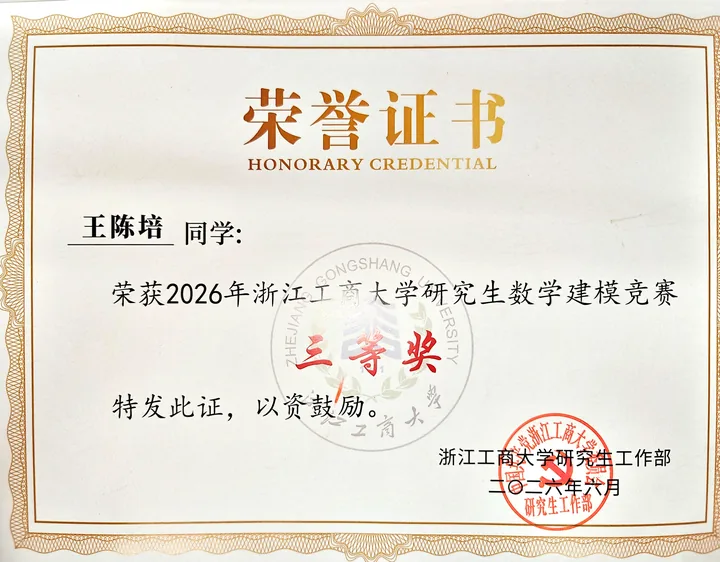
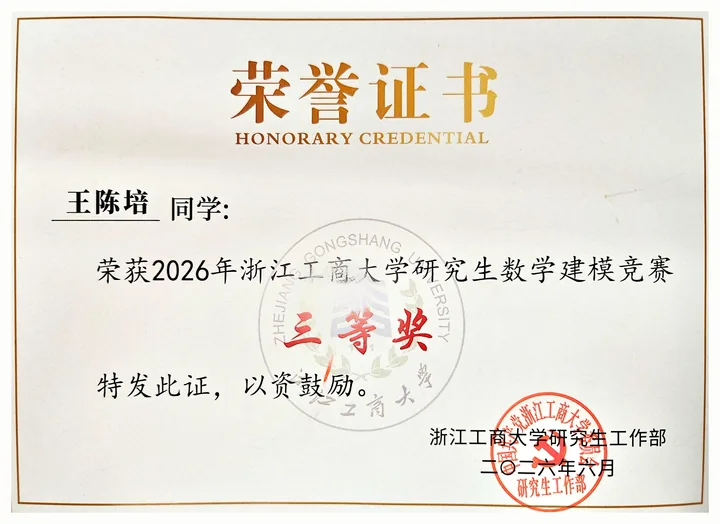
Group PRICAI photos into a Gallery album and improve certificate scan

diff --git a/app/gallery.ts b/app/gallery.ts
@@ -5,66 +5,89 @@ export const galleryCategories = [
 ] as const;
 
 export type GalleryCategory = typeof galleryCategories[number]['id'];
-export type GalleryPhoto = {
-  id:string;
-  title:string;
+export type GalleryImage = {
   image:string;
   thumbnail?:string;
   imageAlt:string;
-  category:GalleryCategory;
   width?:number;
   height?:number;
 };
+export type GalleryItem = {
+  id:string;
+  title:string;
+  category:GalleryCategory;
+  date:string;
+  dateLabel?:string;
+  photos:[GalleryImage, ...GalleryImage[]];
+};
 
-export const galleryPhotos:GalleryPhoto[] = [
+export const galleryItems:GalleryItem[] = [
   {
-    id:'pricai-2026-venue', title:'PRICAI 2026 in Guangzhou', category:'conferences',
-    image:'/gallery/pricai-2026-venue.jpg', thumbnail:'/gallery/thumbs/pricai-2026-venue.webp', width:2048, height:1079,
-    imageAlt:'PRICAI 2026 conference banner in Guangzhou, China',
+    id:'pricai-2026', title:'PRICAI 2026 in Guangzhou', category:'conferences', date:'2026-11', dateLabel:'Nov 16–20, 2026',
+    photos:[
+      {
+        image:'/gallery/pricai-2026-venue.jpg', thumbnail:'/gallery/thumbs/pricai-2026-venue.webp', width:2048, height:1079,
+        imageAlt:'PRICAI 2026 conference banner in Guangzhou, China',
+      },
+      {
+        image:'/gallery/pricai-2026-shi-lin.jpg', thumbnail:'/gallery/thumbs/pricai-2026-shi-lin.webp', width:1094, height:1514,
+        imageAlt:'Shi Lin standing beside the ReDPJ poster at PRICAI 2026',
+      },
+      {
+        image:'/gallery/pricai-2026-redpj-poster.jpg', thumbnail:'/gallery/thumbs/pricai-2026-redpj-poster.webp', width:1284, height:1878,
+        imageAlt:'Printed ReDPJ research poster on display at PRICAI 2026',
+      },
+    ],
   },
   {
-    id:'pricai-2026-shi-lin', title:'Shi Lin at the PRICAI 2026 Poster Session', category:'conferences',
-    image:'/gallery/pricai-2026-shi-lin.jpg', thumbnail:'/gallery/thumbs/pricai-2026-shi-lin.webp', width:1094, height:1514,
-    imageAlt:'Shi Lin standing beside the ReDPJ poster at PRICAI 2026',
+    id:'cvpr-workshop-2025', title:'CVPR 2025 Workshop Challenge · Fourth Place', category:'awards', date:'2025-06',
+    photos:[{
+      image:'/gallery/cvpr-workshop-2025.webp', thumbnail:'/gallery/thumbs/cvpr-workshop-2025.webp', width:1450, height:2048,
+      imageAlt:'Fourth-place certificate for the CVPR 2025 workshop challenge',
+    }],
   },
   {
-    id:'pricai-2026-redpj-poster', title:'ReDPJ Poster at PRICAI 2026', category:'conferences',
-    image:'/gallery/pricai-2026-redpj-poster.jpg', thumbnail:'/gallery/thumbs/pricai-2026-redpj-poster.webp', width:1284, height:1878,
-    imageAlt:'Printed ReDPJ research poster on display at PRICAI 2026',
+    id:'zjsu-mathematical-modeling-2026', title:'ZJSU Graduate Mathematical Modeling Competition · Third Prize', category:'awards', date:'2026-06',
+    photos:[{
+      image:'/gallery/zjsu-mathematical-modeling-2026-scan.jpg?v=2', thumbnail:'/gallery/thumbs/zjsu-mathematical-modeling-2026-scan.webp?v=2', width:1910, height:1389,
+      imageAlt:'Third-prize certificate for the 2026 ZJSU graduate mathematical modeling competition',
+    }],
   },
   {
-    id:'cvpr-workshop-2025', title:'CVPR 2025 Workshop Challenge · Fourth Place', category:'awards',
-    image:'/gallery/cvpr-workshop-2025.webp', thumbnail:'/gallery/thumbs/cvpr-workshop-2025.webp', width:1450, height:2048,
-    imageAlt:'Fourth-place certificate for the CVPR 2025 workshop challenge',
+    id:'generative-ai-security-2024', title:'Generative AI Security Competition · Merit Award', category:'awards', date:'2024-12',
+    photos:[{
+      image:'/gallery/generative-ai-security-2024.webp', thumbnail:'/gallery/thumbs/generative-ai-security-2024.webp', width:2048, height:1449,
+      imageAlt:'Merit award certificate for the 2024 Generative AI Security Competition',
+    }],
   },
   {
-    id:'zjsu-mathematical-modeling-2026', title:'ZJSU Graduate Mathematical Modeling Competition · Third Prize', category:'awards',
-    image:'/gallery/zjsu-mathematical-modeling-2026-scan.jpg', thumbnail:'/gallery/thumbs/zjsu-mathematical-modeling-2026-scan.webp', width:1946, height:1519,
-    imageAlt:'Third-prize certificate for the 2026 ZJSU graduate mathematical modeling competition',
+    id:'huawei-cup-2024', title:'6th Huawei Cup Graduate AI Innovation Competition · Third Prize', category:'awards', date:'2024-10',
+    photos:[{
+      image:'/gallery/huawei-cup-2024.webp', thumbnail:'/gallery/thumbs/huawei-cup-2024.webp', width:2048, height:1449,
+      imageAlt:'Third-prize certificate for the sixth Huawei Cup Graduate AI Innovation Competition',
+    }],
   },
   {
-    id:'generative-ai-security-2024', title:'Generative AI Security Competition · Merit Award', category:'awards',
-    image:'/gallery/generative-ai-security-2024.webp', thumbnail:'/gallery/thumbs/generative-ai-security-2024.webp', width:2048, height:1449,
-    imageAlt:'Merit award certificate for the 2024 Generative AI Security Competition',
+    id:'ccf-bdci-rag-2024', title:'2024 CCF BDCI RAG Challenge · Certificate Rank: 15th', category:'awards', date:'2024-12',
+    photos:[{
+      image:'/gallery/ccf-bdci-rag-2024.webp', thumbnail:'/gallery/thumbs/ccf-bdci-rag-2024.webp', width:1449, height:2048,
+      imageAlt:'Certificate for the 2024 CCF BDCI RAG challenge',
+    }],
   },
   {
-    id:'huawei-cup-2024', title:'6th Huawei Cup Graduate AI Innovation Competition · Third Prize', category:'awards',
-    image:'/gallery/huawei-cup-2024.webp', thumbnail:'/gallery/thumbs/huawei-cup-2024.webp', width:2048, height:1449,
-    imageAlt:'Third-prize certificate for the sixth Huawei Cup Graduate AI Innovation Competition',
+    id:'ccf-bdci-graph-query-2024', title:'2024 CCF BDCI Graph Query Challenge · Certificate Rank: 12th', category:'awards', date:'2024-12',
+    photos:[{
+      image:'/gallery/ccf-bdci-graph-query-2024.webp', thumbnail:'/gallery/thumbs/ccf-bdci-graph-query-2024.webp', width:1449, height:2048,
+      imageAlt:'Certificate for the 2024 CCF BDCI graph query challenge',
+    }],
   },
   {
-    id:'ccf-bdci-rag-2024', title:'2024 CCF BDCI · RAG Challenge', category:'awards',
-    image:'/gallery/ccf-bdci-rag-2024.webp', thumbnail:'/gallery/thumbs/ccf-bdci-rag-2024.webp', width:1449, height:2048,
-    imageAlt:'Certificate for the 2024 CCF BDCI RAG challenge',
-  },
-  {
-    id:'ccf-bdci-graph-query-2024', title:'2024 CCF BDCI · Graph Query Challenge', category:'awards',
-    image:'/gallery/ccf-bdci-graph-query-2024.webp', thumbnail:'/gallery/thumbs/ccf-bdci-graph-query-2024.webp', width:1449, height:2048,
-    imageAlt:'Certificate for the 2024 CCF BDCI graph query challenge',
-  },
-  {
-    id:'zjsu-assistantship-star', title:'ZJSU Graduate Assistantship Star · Nomination Award', category:'awards',
-    image:'/gallery/zjsu-assistantship-star.webp', thumbnail:'/gallery/thumbs/zjsu-assistantship-star.webp', width:2048, height:1448,
-    imageAlt:'Graduate Assistantship Star nomination award certificate from Zhejiang Gongshang University',
+    id:'zjsu-assistantship-star', title:'ZJSU Graduate Assistantship Star · Nomination Award', category:'awards', date:'2026-06',
+    photos:[{
+      image:'/gallery/zjsu-assistantship-star.webp', thumbnail:'/gallery/thumbs/zjsu-assistantship-star.webp', width:2048, height:1448,
+      imageAlt:'Graduate Assistantship Star nomination award certificate from Zhejiang Gongshang University',
+    }],
   },
 ];
+
+export const galleryAlbums = galleryItems.filter(item => item.photos.length > 1);

diff --git a/app/site.tsx b/app/site.tsx
@@ -2,10 +2,10 @@
 
 import { useEffect, useRef, useState, type ReactNode } from 'react';
 import Link from 'next/link';
-import { ArrowUpRight, Building2, Camera, ChevronDown, Code2, FileText, Mail, MapPin, Menu, Network, ShieldCheck, X } from 'lucide-react';
+import { ArrowUpRight, Building2, Camera, ChevronDown, ChevronLeft, Code2, FileText, Images, Mail, MapPin, Menu, Network, ShieldCheck, X } from 'lucide-react';
 import { areas, projects, news, pages, sectionAliases, labDetails, memberGroups, advisorProfile, supervisorPublications, type Project, type NewsItem } from './data';
 import { publications, publicationAreas, type PublicationItem } from './publications';
-import { galleryCategories, galleryPhotos } from './gallery';
+import { galleryCategories, galleryItems, type GalleryImage, type GalleryItem } from './gallery';
 import { formatNewsDate, isRecentNews, newsYear } from './news-dates';
 
 const nav = [
@@ -129,18 +129,47 @@ function NewsDate({ item, now }: { item:NewsItem; now:number | null }) {
   </div>;
 }
 
+function GalleryDate({ item }: { item:GalleryItem }) {
+  return <time dateTime={item.date}>{item.dateLabel ?? formatNewsDate(item.date)}</time>;
+}
+
+function GalleryPicture({ photo }: { photo:GalleryImage }) {
+  return <img src={assetPath(photo.thumbnail ?? photo.image)} alt={photo.imageAlt} loading="lazy" decoding="async" width={photo.width} height={photo.height} />;
+}
+
+function GalleryAlbum({ item }: { item:GalleryItem }) {
+  return <section className="panel gallery-album" aria-label={item.title + ' photos'}>
+    <div className="gallery-album-toolbar">
+      <Link href="/gallery"><ChevronLeft size={16} aria-hidden="true" />Back to Gallery</Link>
+      <GalleryDate item={item} />
+    </div>
+    <div className="gallery-album-stack">
+      {item.photos.map(photo => <a className="gallery-photo-link" data-portrait={Boolean(photo.width && photo.height && photo.height > photo.width)} key={photo.image} href={assetPath(photo.image)} target="_blank" rel="noreferrer" aria-label={'Open full-size photo: ' + photo.imageAlt}>
+        <GalleryPicture photo={photo} />
+      </a>)}
+    </div>
+  </section>;
+}
+
 function Gallery() {
   const [activeCategory, setActiveCategory] = useState('all');
-  const photos = galleryPhotos.filter(photo => activeCategory === 'all' || photo.category === activeCategory);
+  const items = galleryItems.filter(item => activeCategory === 'all' || item.category === activeCategory);
   return <section className="panel gallery-panel">
     <div className="gallery-toolbar" role="group" aria-label="Filter photos by category">
       {[{id:'all',name:'All'}, ...galleryCategories].map(category => <button type="button" className="gallery-filter" key={category.id} aria-pressed={activeCategory === category.id} onClick={() => setActiveCategory(category.id)}>{category.name}</button>)}
     </div>
-    {photos.length > 0 ? <div className="gallery-grid">{photos.map(photo => <figure className="gallery-photo" key={photo.id}>
-      <a className="gallery-photo-link" href={assetPath(photo.image)} target="_blank" rel="noreferrer" aria-label={'Open full-size photo: ' + photo.title}>
-        <img src={assetPath(photo.thumbnail ?? photo.image)} alt={photo.imageAlt} loading="lazy" decoding="async" width={photo.width} height={photo.height} />
-      </a>
-    </figure>)}</div> : <div className="gallery-empty" role="status">
+    {items.length > 0 ? <div className="gallery-grid" data-single={items.length === 1}>{items.map(item => {
+      const cover = item.photos[0];
+      return <figure className="gallery-photo" key={item.id}>
+        {item.photos.length > 1 ? <Link className="gallery-photo-link gallery-cover-link" href={'/gallery/' + item.id} aria-label={'Open album: ' + item.title}>
+          <GalleryPicture photo={cover} />
+          <span className="gallery-album-icon" aria-hidden="true"><Images size={17} strokeWidth={1.7} /></span>
+        </Link> : <a className="gallery-photo-link" href={assetPath(cover.image)} target="_blank" rel="noreferrer" aria-label={'Open full-size photo: ' + item.title}>
+          <GalleryPicture photo={cover} />
+        </a>}
+        <figcaption><h2>{item.title}</h2><GalleryDate item={item} /></figcaption>
+      </figure>;
+    })}</div> : <div className="gallery-empty" role="status">
       <div className="gallery-empty-art" aria-hidden="true"><span /><span /><span><Camera size={34} strokeWidth={1.3} /></span></div>
       <p>Photos coming soon</p>
     </div>}
@@ -440,7 +469,7 @@ function ProjectDetail({ id }: { id: string }) {
   </>;
 }
 
-export function LabSite({ section: requestedSection, projectId }: { section: string; projectId?: string }) {
+export function LabSite({ section: requestedSection, projectId, album }: { section: string; projectId?: string; album?:GalleryItem }) {
   const [menu, setMenu] = useState(false);
   const navigationRef = useRef<HTMLElement>(null);
   const section = sectionAliases[requestedSection] || requestedSection;
@@ -538,7 +567,7 @@ export function LabSite({ section: requestedSection, projectId }: { section: str
   }, []);
   const content: Record<string, ReactNode> = {
     home: <Home />, advisor: <Advisor />, members: <Members />,
-    publications: <Publications />, news: <News />, gallery: <Gallery />, contact: <Contact />, resources: <Resources />,
+    publications: <Publications />, news: <News />, gallery: album ? <GalleryAlbum item={album} /> : <Gallery />, contact: <Contact />, resources: <Resources />,
   };
   return <>
     <a href="#main-content" className="skip-link">Skip to main content</a>
@@ -553,7 +582,7 @@ export function LabSite({ section: requestedSection, projectId }: { section: str
       </div>
     </div></header>
     <div className="site-body"><Sidebar /><main id="main-content" className="main-content">
-      {page && <div className="page-heading"><h1>{page.title}</h1></div>}
+      {page && <div className="page-heading"><h1>{album?.title ?? page.title}</h1></div>}
       {projectId ? <ProjectDetail id={projectId} /> : content[section]}
       <footer className="site-footer"><p>© 2026 TrustLab · Zhejiang Gongshang University</p><a href="#main-content">Back to top ↑</a></footer>
     </main></div>

diff --git a/app/globals.css b/app/globals.css
@@ -279,9 +279,22 @@ section[id], article[id] { scroll-margin-top: 116px; }
 .gallery-empty-art > span:nth-child(3) { left: 20px; top: 26px; display: flex; align-items: center; justify-content: center; color: #829bb9; }
 .gallery-empty p { color: var(--muted); font-size: 14px; }
 .gallery-grid { columns: 3; column-gap: 16px; padding: 22px 23px 6px; }
+.gallery-grid[data-single="true"] { columns: 1; }
 .gallery-photo { position: relative; isolation: isolate; display: inline-block; width: 100%; break-inside: avoid; margin: 0 0 16px; border: 1px solid #ffffffbd; border-radius: var(--radius-card); overflow: hidden; background: #ffffffe8; box-shadow: inset 0 1px 0 #fff, 0 0 0 1px #d7e3f07a, 0 6px 20px -12px #294a7430; }
 .gallery-photo-link { display: block; cursor: zoom-in; }
 .gallery-photo-link img { width: 100%; height: auto; }
+.gallery-photo-link:focus-visible { outline-offset: -4px; }
+.gallery-photo figcaption { display: grid; gap: 4px; padding: 12px 14px 14px; }
+.gallery-photo h2 { color: var(--navy); font-size: 14px; font-weight: 600; line-height: 1.48; }
+.gallery-photo time, .gallery-album-toolbar time { color: var(--muted); font-size: 13px; line-height: 1.5; }
+.gallery-cover-link { position: relative; cursor: pointer; }
+.gallery-album-icon { position: absolute; inset: 10px 10px auto auto; display: grid; place-items: center; width: 36px; height: 36px; border-radius: 50%; background: #fffffff0; box-shadow: var(--control-shadow); color: var(--navy); }
+.gallery-album-toolbar { display: flex; align-items: center; justify-content: space-between; flex-wrap: wrap; gap: 10px; padding: 17px 23px; border-bottom: 1px solid #dfe7f27d; }
+.gallery-album-toolbar a { display: inline-flex; align-items: center; gap: 4px; color: var(--blue); font-size: 14px; }
+.gallery-album-toolbar a:hover { text-decoration: underline; }
+.gallery-album-stack { display: grid; justify-items: center; gap: 18px; padding: 22px; }
+.gallery-album-stack > a { width: 100%; border-radius: var(--radius-image); overflow: hidden; box-shadow: 0 0 0 1px #d7e3f07a, 0 6px 20px -12px #294a7430; }
+.gallery-album-stack > a[data-portrait="true"] { max-width: 560px; }
 
 @supports ((backdrop-filter: blur(1px)) or (-webkit-backdrop-filter: blur(1px))) {
   .header-inner { background: linear-gradient(140deg, #ffffffcf, #f0f6ffd1); -webkit-backdrop-filter: blur(26px) saturate(155%); backdrop-filter: blur(26px) saturate(155%); }
@@ -446,6 +459,8 @@ section[id], article[id] { scroll-margin-top: 116px; }
   .gallery-filter { padding: 7px 11px; font-size: 11px; }
   .gallery-empty { min-height: 260px; }
   .gallery-grid { columns: 1; padding: 18px 19px 2px; }
+  .gallery-album-toolbar { padding: 15px 18px; }
+  .gallery-album-stack { gap: 14px; padding: 16px; }
   .site-footer { flex-wrap: wrap; font-size: 11px; gap: 7px; margin-top: 23px; padding-top: 18px; }
 }
 

diff --git a/app/gallery/[album]/page.tsx b/app/gallery/[album]/page.tsx
@@ -1,0 +1,22 @@
+import { notFound } from 'next/navigation';
+import { galleryAlbums } from '../../gallery';
+import { LabSite } from '../../site';
+
+type Params = { params:Promise<{album:string}> };
+
+export const dynamicParams = false;
+export function generateStaticParams() {
+  return galleryAlbums.map(item => ({album:item.id}));
+}
+
+export async function generateMetadata({ params }: Params) {
+  const { album } = await params;
+  return {title:galleryAlbums.find(item => item.id === album)?.title ?? 'Album not found'};
+}
+
+export default async function AlbumPage({ params }: Params) {
+  const { album } = await params;
+  const item = galleryAlbums.find(entry => entry.id === album);
+  if (!item) notFound();
+  return <LabSite section="gallery" album={item} />;
+}

diff --git a/docs/site-content-guide.md b/docs/site-content-guide.md
@@ -4,15 +4,15 @@ The homepage keeps Welcome → News → Research. The navigation includes a sepa
 
 ## Gallery content
 
-Add confirmed photos to `app/gallery.ts`:
+Add confirmed photos or albums to `app/gallery.ts`:
 
-- Required: `id`, `title`, `image`, `imageAlt`, `category`.
+- Each card needs `id`, `title`, `date`, `category`, and a nonempty `photos` list. Each photo needs `image` and `imageAlt`; `width`, `height`, and `thumbnail` are optional.
 - Category: `lab`, `awards`, or `conferences`.
-- Optional: `width`, `height`, `thumbnail`.
+- Use `dateLabel` for an event date range when appropriate.
 
-Use original activity photos or images rendered from the supplied certificates. Gallery cards display images only. Keep `title` and `imageAlt` for accessible image and link names. Store the full images in `public/gallery/` and smaller previews of the same proportions in `public/gallery/thumbs/`. Use `/gallery/photo-name.jpg` paths in the data; the GitHub Pages base path is applied automatically. For photographed certificates, correct perspective and lighting while preserving the original document contents.
+Use original activity photos or images rendered from the supplied certificates. Card captions display only a title and date; omit participant names from award captions. Store the full images in `public/gallery/` and smaller previews of the same proportions in `public/gallery/thumbs/`. Use `/gallery/photo-name.jpg` paths in the data; the GitHub Pages base path is applied automatically. For photographed certificates, correct perspective and lighting while preserving the original document contents.
 
-The photo wall uses three columns on desktop, two on narrower desktop/tablet screens and one on mobile. Original aspect ratios are preserved, including tall certificates. Selecting a category filters the photos; clicking a photo opens the full-size image.
+The photo wall uses three columns on desktop, two on narrower desktop/tablet screens and one on mobile. Original aspect ratios are preserved. Put multiple photos from one conference in a single card; its first image is the cover, and clicking it opens all the photos on a dedicated album page. A single-image card opens the full-size image directly.
 
 ## News
 
